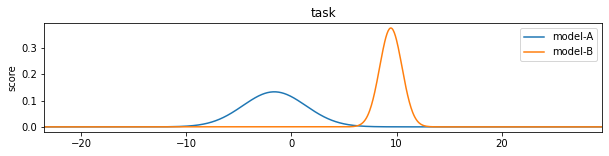
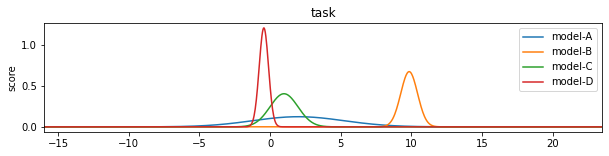
Deploying to gh-pages from main @ 027d28be968533d2cbd072cd3f641fd5a14d477b 🚀

diff --git a/notebooks/2_Smart_Selectors.html b/notebooks/2_Smart_Selectors.html
@@ -478,6 +478,8 @@ div.rendered_html tbody tr:hover {
 <span class="n">models</span> <span class="o">=</span> <span class="p">{</span>
     <span class="s2">&quot;model-A&quot;</span><span class="p">:</span> <span class="k">lambda</span><span class="p">:</span> <span class="n">np</span><span class="o">.</span><span class="n">random</span><span class="o">.</span><span class="n">normal</span><span class="p">(</span><span class="n">loc</span><span class="o">=</span><span class="mf">0.0</span><span class="p">,</span> <span class="n">scale</span><span class="o">=</span><span class="mf">3.0</span><span class="p">),</span>
     <span class="s2">&quot;model-B&quot;</span><span class="p">:</span> <span class="k">lambda</span><span class="p">:</span> <span class="n">np</span><span class="o">.</span><span class="n">random</span><span class="o">.</span><span class="n">normal</span><span class="p">(</span><span class="n">loc</span><span class="o">=</span><span class="mf">10.0</span><span class="p">,</span> <span class="n">scale</span><span class="o">=</span><span class="mf">1.0</span><span class="p">),</span>
+    <span class="s2">&quot;model-C&quot;</span><span class="p">:</span> <span class="k">lambda</span><span class="p">:</span> <span class="n">np</span><span class="o">.</span><span class="n">random</span><span class="o">.</span><span class="n">normal</span><span class="p">(</span><span class="n">loc</span><span class="o">=</span><span class="mf">1.0</span><span class="p">,</span> <span class="n">scale</span><span class="o">=</span><span class="mf">1.0</span><span class="p">),</span>
+    <span class="s2">&quot;model-D&quot;</span><span class="p">:</span> <span class="k">lambda</span><span class="p">:</span> <span class="n">np</span><span class="o">.</span><span class="n">random</span><span class="o">.</span><span class="n">normal</span><span class="p">(</span><span class="n">loc</span><span class="o">=-</span><span class="mf">1.0</span><span class="p">,</span> <span class="n">scale</span><span class="o">=</span><span class="mf">0.5</span><span class="p">),</span>
 <span class="p">}</span>
 <span class="k">for</span> <span class="n">model</span><span class="p">,</span> <span class="n">func</span> <span class="ow">in</span> <span class="n">models</span><span class="o">.</span><span class="n">items</span><span class="p">():</span>
     <span class="n">task</span><span class="o">.</span><span class="n">report</span><span class="p">(</span><span class="n">model</span><span class="p">,</span> <span class="p">{</span><span class="s2">&quot;score&quot;</span><span class="p">:</span> <span class="n">func</span><span class="p">()})</span>
@@ -494,26 +496,18 @@ div.rendered_html tbody tr:hover {
 <span class="kn">from</span> <span class="nn">metricx</span> <span class="kn">import</span> <span class="n">Selector</span>
 
 <span class="n">selector</span> <span class="o">=</span> <span class="n">Selector</span><span class="p">(</span><span class="n">task</span><span class="p">)</span>
-<span class="k">for</span> <span class="n">_</span> <span class="ow">in</span> <span class="nb">range</span><span class="p">(</span><span class="mi">5</span><span class="p">):</span>
+<span class="k">for</span> <span class="n">_</span> <span class="ow">in</span> <span class="nb">range</span><span class="p">(</span><span class="mi">20</span><span class="p">):</span>
     <span class="n">model</span> <span class="o">=</span> <span class="n">selector</span><span class="o">.</span><span class="n">propose</span><span class="p">()</span>
     <span class="n">task</span><span class="o">.</span><span class="n">report</span><span class="p">(</span><span class="n">model</span><span class="p">,</span> <span class="p">{</span><span class="s2">&quot;score&quot;</span><span class="p">:</span> <span class="n">models</span><span class="p">[</span><span class="n">model</span><span class="p">]()})</span>
-<span class="n">task</span><span class="o">.</span><span class="n">to_figure</span><span class="p">()</span>
+<span class="n">task</span><span class="o">.</span><span class="n">to_figure</span><span class="p">();</span>
 </pre></div>
-</div>
-</div>
-<div class="nboutput docutils container">
-<div class="prompt highlight-none notranslate"><div class="highlight"><pre><span></span>[4]:
-</pre></div>
-</div>
-<div class="output_area docutils container">
-<img alt="../_images/notebooks_2_Smart_Selectors_7_0.png" src="../_images/notebooks_2_Smart_Selectors_7_0.png" />
 </div>
 </div>
 <div class="nboutput nblast docutils container">
 <div class="prompt empty docutils container">
 </div>
 <div class="output_area docutils container">
-<img alt="../_images/notebooks_2_Smart_Selectors_7_1.png" src="../_images/notebooks_2_Smart_Selectors_7_1.png" />
+<img alt="../_images/notebooks_2_Smart_Selectors_7_0.png" src="../_images/notebooks_2_Smart_Selectors_7_0.png" />
 </div>
 </div>
 <p>Although the usage of the Selector class is optional, it’s highly recommended as it can reduce the number of samples needed to be able to confidently determine the ranking of the models.</p>

diff --git a/_modules/metricx/grid.html b/_modules/metricx/grid.html
@@ -180,7 +180,7 @@
            <div itemprop="articleBody">
             
   <h1>Source code for metricx.grid</h1><div class="highlight"><pre>
-<span></span><span class="kn">from</span> <span class="nn">typing</span> <span class="kn">import</span> <span class="n">List</span>
+<span></span><span class="kn">from</span> <span class="nn">typing</span> <span class="kn">import</span> <span class="n">Dict</span><span class="p">,</span> <span class="n">List</span>
 
 <span class="kn">import</span> <span class="nn">numpy</span> <span class="k">as</span> <span class="nn">np</span>
 <span class="kn">import</span> <span class="nn">pandas</span> <span class="k">as</span> <span class="nn">pd</span>
@@ -210,8 +210,10 @@
 <span class="sd">    &quot;&quot;&quot;</span>
 
     <span class="k">def</span> <span class="fm">__init__</span><span class="p">(</span><span class="bp">self</span><span class="p">,</span> <span class="n">tasks</span><span class="p">:</span> <span class="n">List</span><span class="p">[</span><span class="n">Task</span><span class="p">]):</span>
-        <span class="bp">self</span><span class="o">.</span><span class="n">tasks</span> <span class="o">=</span> <span class="p">{}</span>
+        <span class="bp">self</span><span class="o">.</span><span class="n">tasks</span><span class="p">:</span> <span class="n">Dict</span><span class="p">[</span><span class="nb">str</span><span class="p">,</span> <span class="n">Task</span><span class="p">]</span> <span class="o">=</span> <span class="p">{}</span>
         <span class="k">for</span> <span class="n">task</span> <span class="ow">in</span> <span class="n">tasks</span><span class="p">:</span>
+            <span class="k">if</span> <span class="n">task</span><span class="o">.</span><span class="n">name</span> <span class="ow">in</span> <span class="bp">self</span><span class="o">.</span><span class="n">tasks</span><span class="p">:</span>
+                <span class="k">raise</span> <span class="ne">ValueError</span><span class="p">(</span><span class="s2">&quot;Task names must be unique.&quot;</span><span class="p">)</span>
             <span class="bp">self</span><span class="o">.</span><span class="n">tasks</span><span class="p">[</span><span class="n">task</span><span class="o">.</span><span class="n">name</span><span class="p">]</span> <span class="o">=</span> <span class="n">task</span>
 
 <div class="viewcode-block" id="TaskGrid.to_html"><a class="viewcode-back" href="../../metricx.html#metricx.TaskGrid.to_html">[docs]</a>    <span class="k">def</span> <span class="nf">to_html</span><span class="p">(</span><span class="bp">self</span><span class="p">,</span> <span class="n">path_to_html</span><span class="p">):</span>

diff --git a/_modules/metricx/task.html b/_modules/metricx/task.html
@@ -234,7 +234,8 @@
         <span class="bp">self</span><span class="o">.</span><span class="n">results</span><span class="p">:</span> <span class="n">Dict</span><span class="p">[</span><span class="nb">str</span><span class="p">,</span> <span class="n">List</span><span class="p">[</span><span class="n">Dict</span><span class="p">[</span><span class="nb">str</span><span class="p">,</span> <span class="nb">float</span><span class="p">]]]</span> <span class="o">=</span> <span class="p">{}</span>
 
         <span class="k">for</span> <span class="n">metric</span> <span class="ow">in</span> <span class="n">metrics</span><span class="p">:</span>
-            <span class="k">assert</span> <span class="n">metric</span><span class="o">.</span><span class="n">name</span> <span class="ow">not</span> <span class="ow">in</span> <span class="bp">self</span><span class="o">.</span><span class="n">metrics</span>
+            <span class="k">if</span> <span class="n">metric</span><span class="o">.</span><span class="n">name</span> <span class="ow">in</span> <span class="bp">self</span><span class="o">.</span><span class="n">metrics</span><span class="p">:</span>
+                <span class="k">raise</span> <span class="ne">ValueError</span><span class="p">(</span><span class="s2">&quot;Metric names must be unique.&quot;</span><span class="p">)</span>
             <span class="bp">self</span><span class="o">.</span><span class="n">metrics</span><span class="p">[</span><span class="n">metric</span><span class="o">.</span><span class="n">name</span><span class="p">]</span> <span class="o">=</span> <span class="n">metric</span>
         <span class="bp">self</span><span class="o">.</span><span class="n">default_metric</span> <span class="o">=</span> <span class="n">metrics</span><span class="p">[</span><span class="mi">0</span><span class="p">]</span>
 
